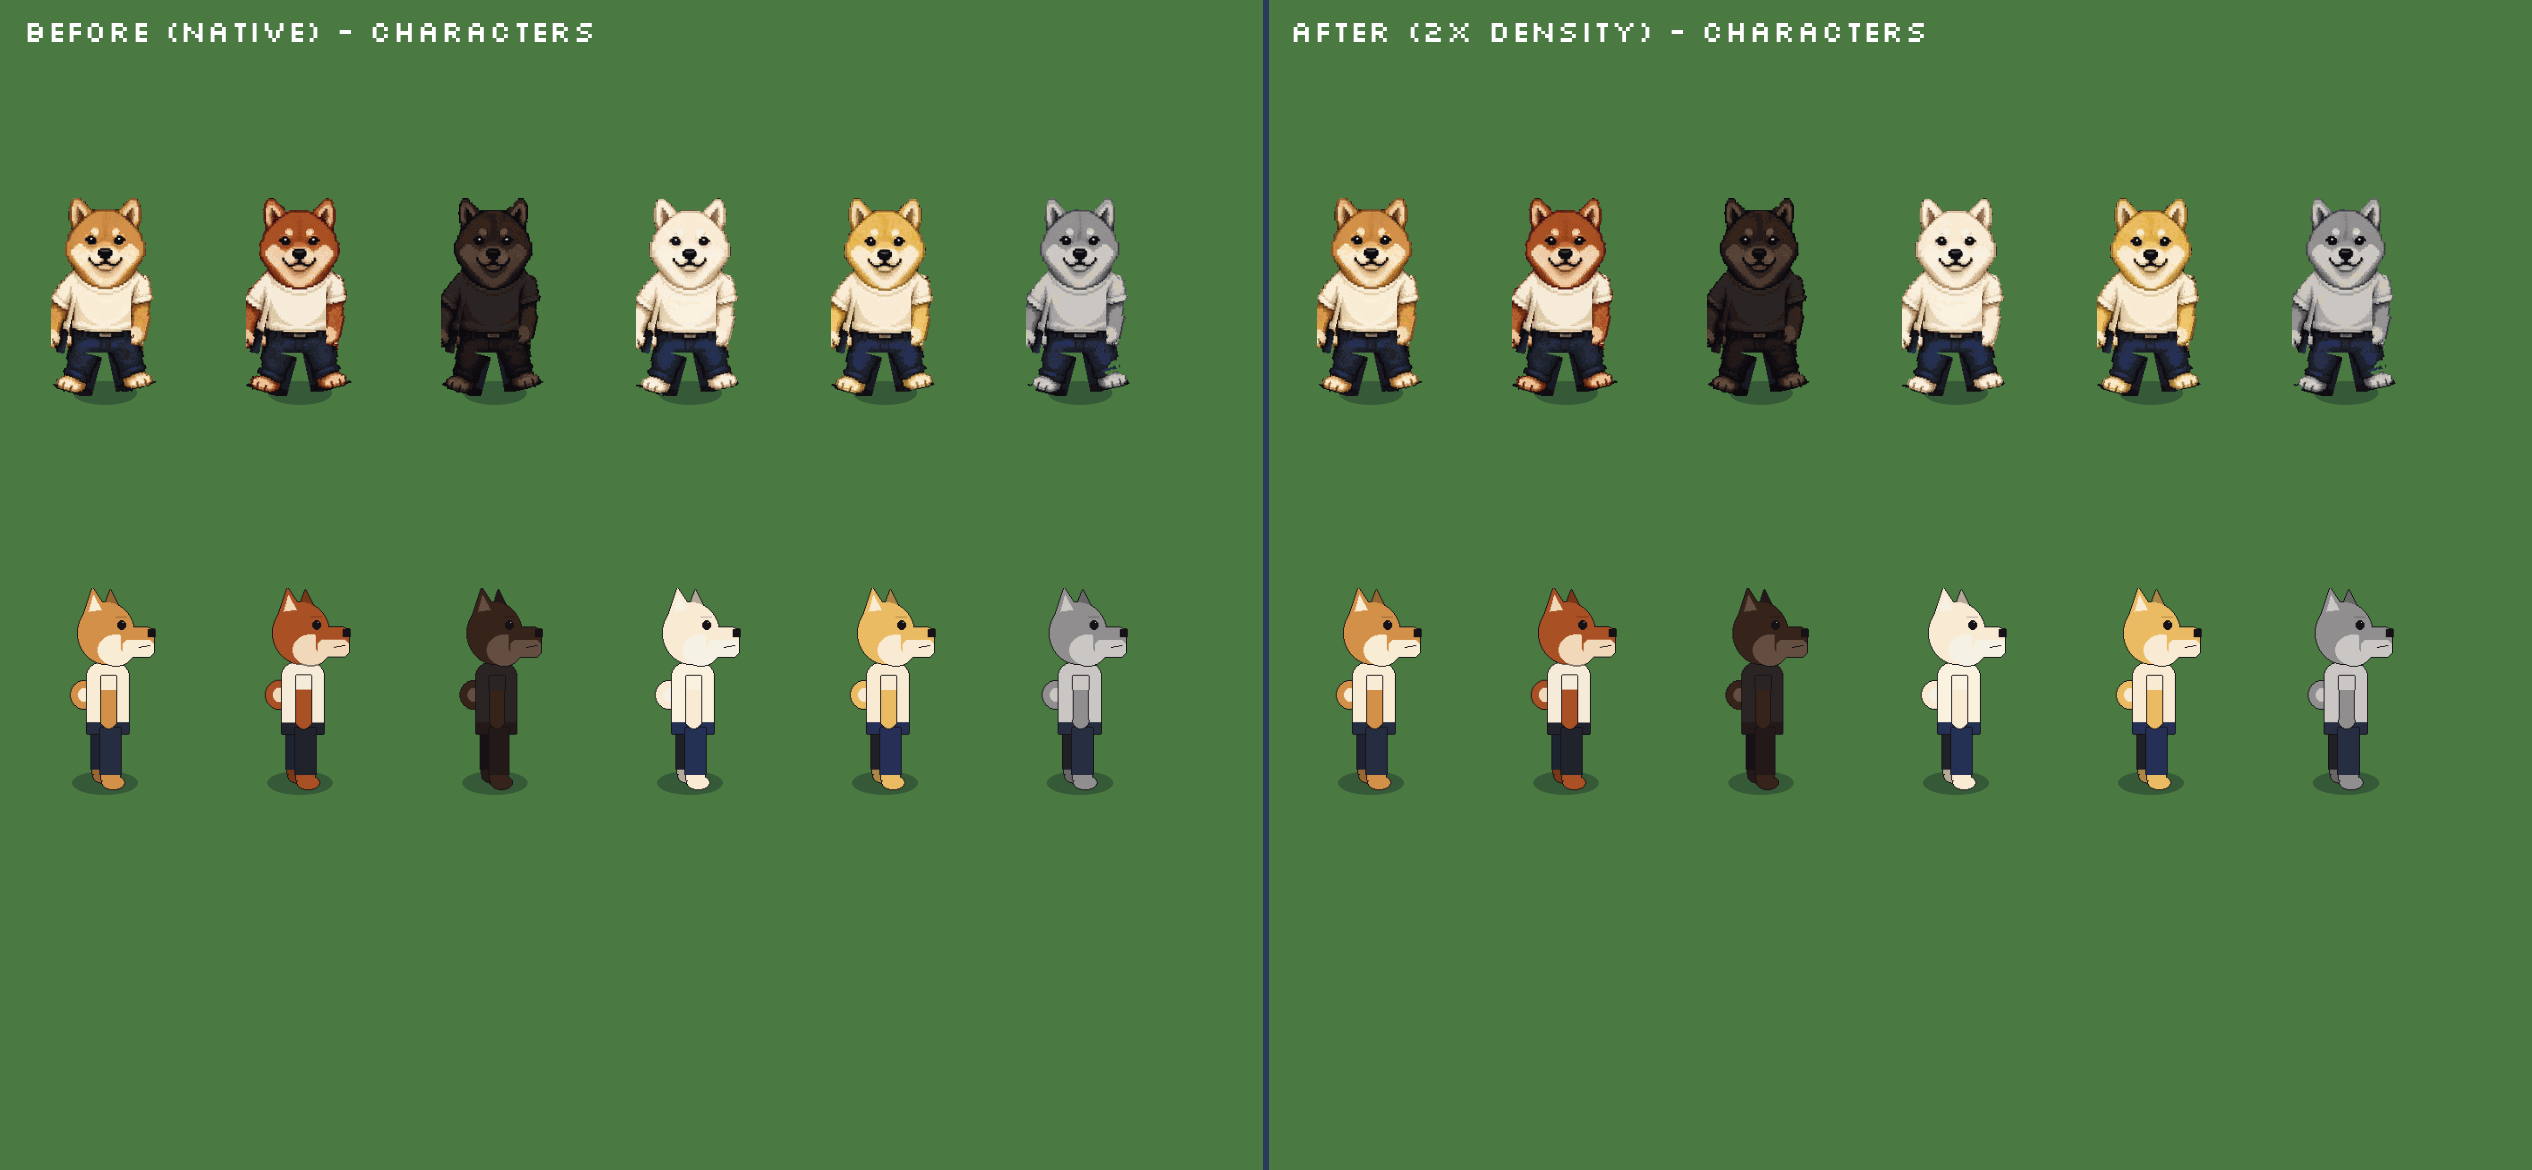
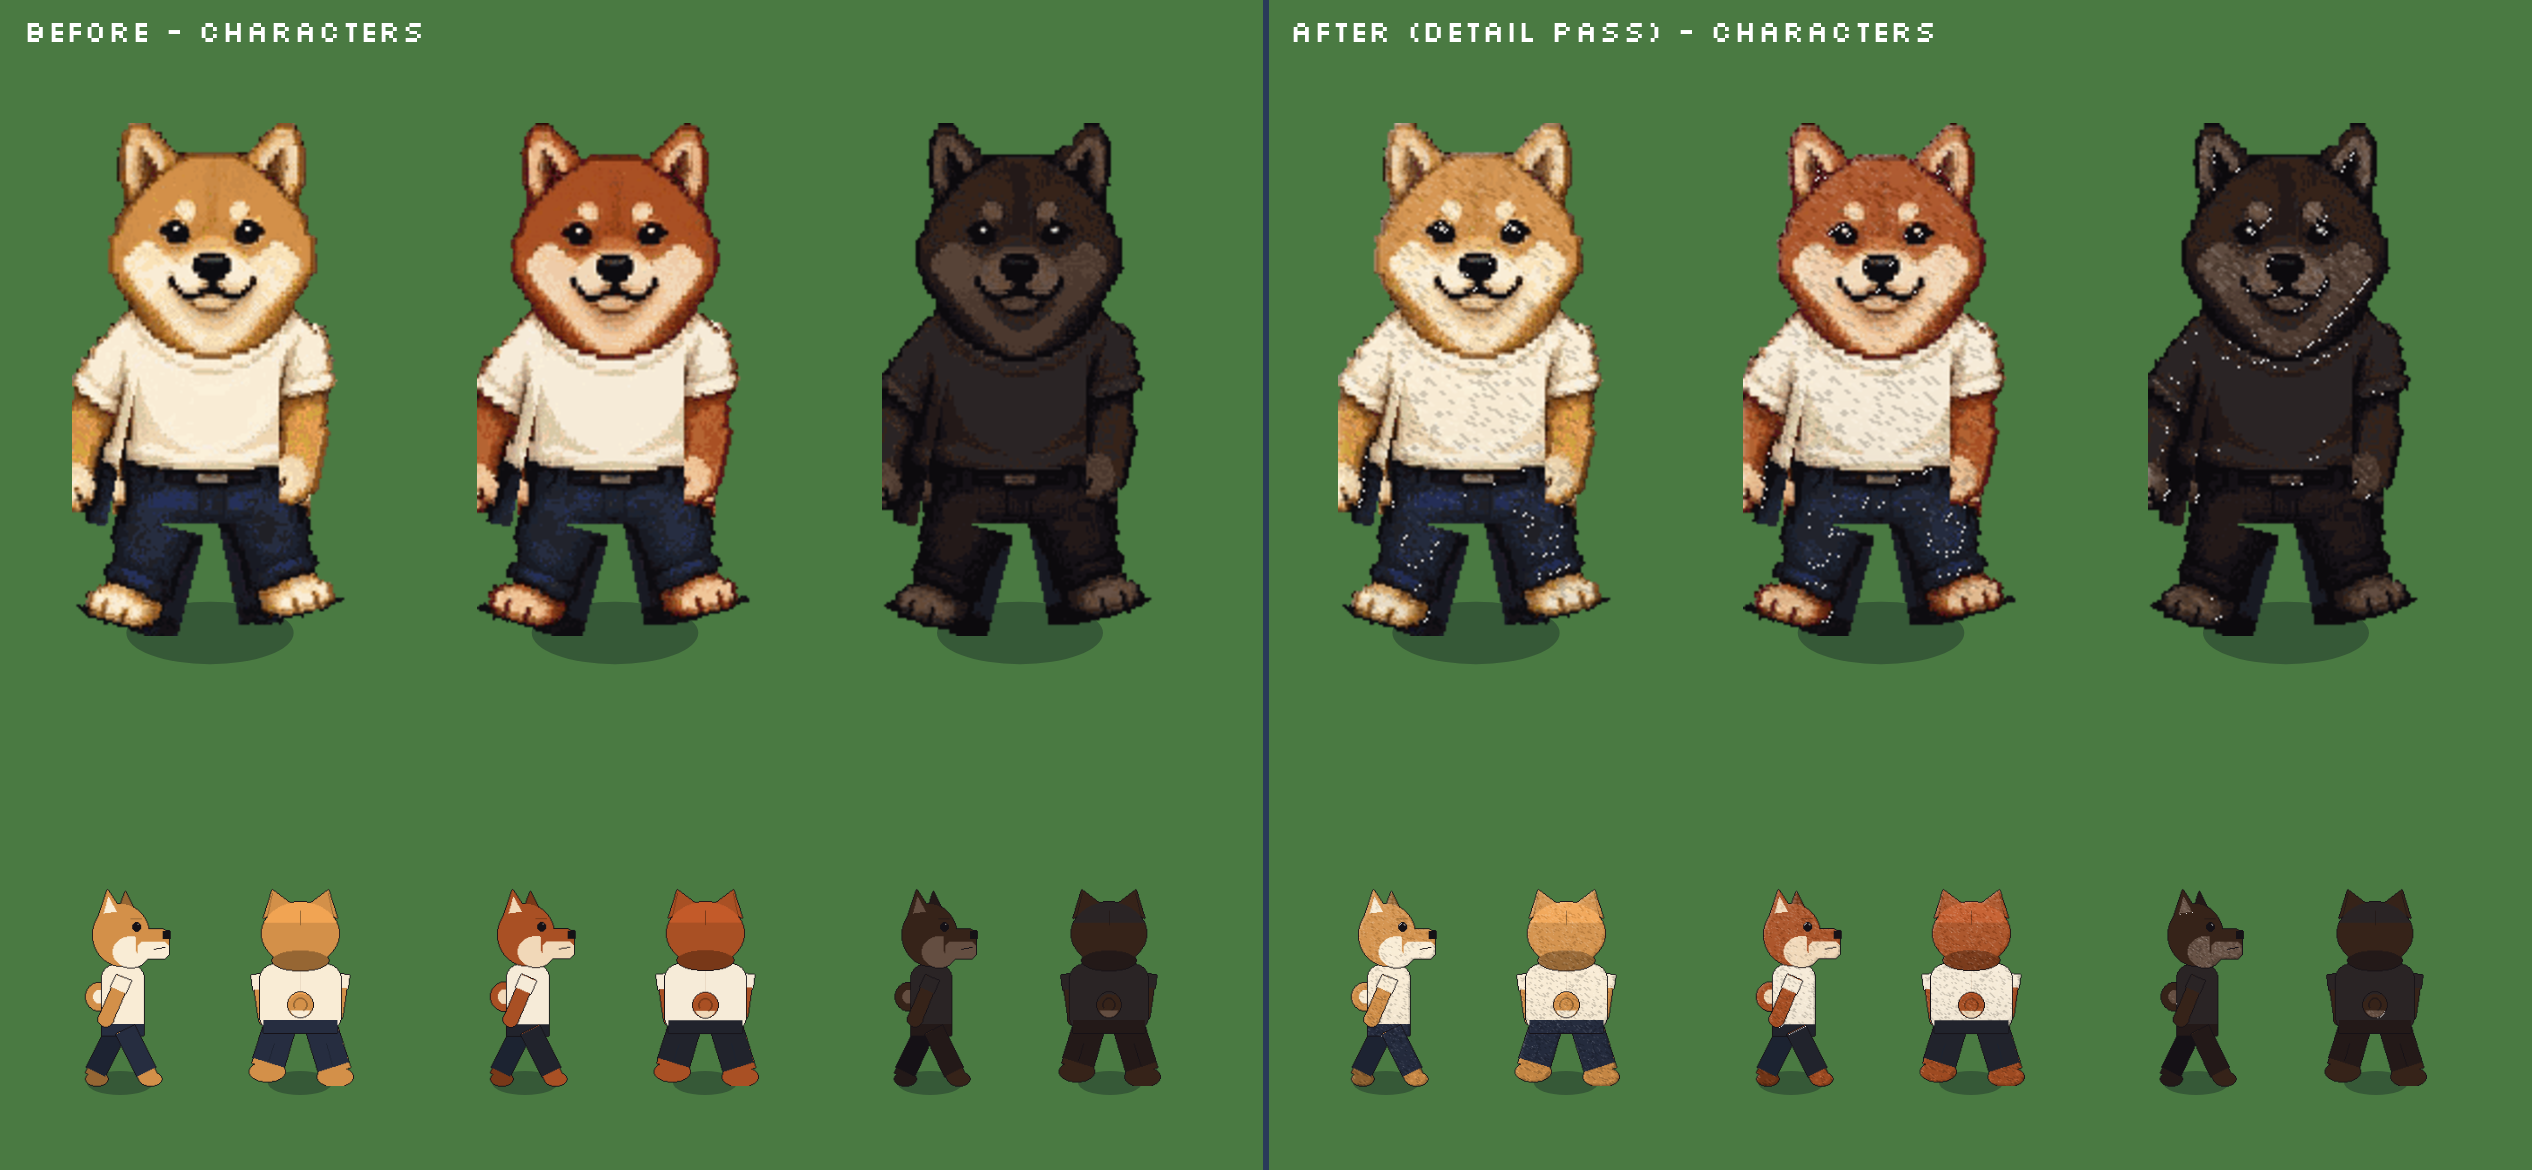
Detail pass (1/4): characters, 28 outfit items, shared Shiba - fur strands, form shading + rim light, eye glints, per-item fabric/material patterns (pinstripe, knit, twill+stitching, florals, sequins, satin sheen, lens glints, jewel sparkle)

diff --git a/src/detail.js b/src/detail.js
@@ -1,0 +1,67 @@
+// Detail pass for cosmetics: form shading + rim light, fur strands, eye glints and per-item fabric/material patterns.
+// All procedural, palette-preserving (mixes toward each pixel's own lighter/darker tone), run once per sprite and cached.
+const mk = (w, h) => (typeof OffscreenCanvas !== 'undefined' ? new OffscreenCanvas(w, h) : Object.assign(document.createElement('canvas'), { width: w, height: h }));
+const hash = (x, y, s = 0) => { let n = (x * 374761393 + y * 668265263 + s * 2147483647) | 0; n = Math.imul(n ^ (n >>> 13), 1274126177); return ((n ^ (n >>> 16)) >>> 0) / 4294967296; };
+const lum = (r, g, b) => 0.3 * r + 0.59 * g + 0.11 * b;
+// Pixel-level pass on a canvas (in place). r = rim/shadow reach in px. fur = strand strength (0 = none).
+export function shadeSprite(cv, { r = 2, light = 0.28, dark = 0.3, fur = 0, glint = false, grad = 0.12, seed = 1, skipInk = 40 } = {}) {
+  const w = cv.width, h = cv.height, c = cv.getContext('2d'), im = c.getImageData(0, 0, w, h), d = im.data, src = new Uint8ClampedArray(d);
+  const A = (x, y) => (x < 0 || y < 0 || x >= w || y >= h ? 0 : src[(y * w + x) * 4 + 3]);
+  const L = (x, y) => { const i = (y * w + x) * 4; return lum(src[i], src[i + 1], src[i + 2]); };
+  let y0 = h, y1 = 0; for (let y = 0; y < h; y++) for (let x = 0; x < w; x++) if (A(x, y) > 128) { y0 = Math.min(y0, y); y1 = Math.max(y1, y); }
+  const span = Math.max(1, y1 - y0);
+  for (let y = 0; y < h; y++) for (let x = 0; x < w; x++) {
+    const i = (y * w + x) * 4; if (src[i + 3] < 128) continue; const l = L(x, y); if (l < skipInk) continue; // keep outlines/ink crisp
+    let k = 0; // + lighten, - darken
+    for (let s = 1; s <= r; s++) { if (A(x - s, y - s) < 128 || A(x, y - s) < 128) { k += light / s; break; } }
+    for (let s = 1; s <= r; s++) { if (A(x + s, y + s) < 128 || A(x + s, y) < 128) { k -= dark / s; break; } }
+    k += grad * (0.5 - (y - y0) / span) * 2; // top-lit form gradient
+    if (fur) { const hh = hash(x >> 0, y, seed), stroke = hash((x - y) >> 1, (x + y) >> 2, seed + 7); if (stroke > 0.82) k -= fur; else if (stroke < 0.1) k += fur * 0.7; if (hh > 0.97) k += fur; }
+    const t = k > 0 ? 255 : 0, a = Math.min(0.6, Math.abs(k)); for (let j = 0; j < 3; j++) d[i + j] = src[i + j] + (t - src[i + j]) * a;
+  }
+  if (glint) for (let y = 6; y < h - 6; y++) for (let x = 6; x < w - 6; x++) { // eye glints: dark pixel enclosed by colour
+    if (L(x, y) > skipInk || A(x, y) < 128) continue; if (![[-6, 0], [6, 0], [0, -6], [0, 6], [-2, 0], [2, 0], [0, -2], [0, 2]].every(([a, b]) => A(x + a, y + b) > 128)) continue;
+    if (L(x - 1, y) <= skipInk && L(x, y - 1) <= skipInk && L(x + 1, y) <= skipInk && L(x, y + 1) <= skipInk && L(x - 1, y - 1) > skipInk) { const i = (y * w + x) * 4; d[i] = d[i + 1] = d[i + 2] = 255; }
+  }
+  c.putImageData(im, 0, 0); return cv;
+}
+// Material patterns per outfit item (drawn source-atop on that layer only). b = layer bbox [x, y, w, h], u = px unit.
+const P = {
+  pin: (c, [x, y, w, h], col, step = 5) => { c.fillStyle = col; for (let i = x + 2; i < x + w; i += step) c.fillRect(i, y, 1, h); },
+  rows: (c, [x, y, w, h], col, step = 3) => { c.fillStyle = col; for (let j = y + 1; j < y + h; j += step) c.fillRect(x, j, w, 1); },
+  twill: (c, [x, y, w, h], col, step = 4) => { c.fillStyle = col; for (let j = y; j < y + h; j++) for (let i = x + ((j * 1) % step); i < x + w; i += step) c.fillRect(i, j, 1, 1); },
+  folds: (c, [x, y, w, h], n = 3) => { c.strokeStyle = 'rgba(0,0,0,.28)'; c.lineWidth = 1.5; for (let k = 0; k < n; k++) { const fy = y + h * (0.3 + 0.22 * k); c.beginPath(); c.moveTo(x + w * 0.15, fy); c.quadraticCurveTo(x + w * 0.5, fy + 5, x + w * 0.85, fy - 1); c.stroke(); } c.strokeStyle = 'rgba(255,255,255,.18)'; for (let k = 0; k < n; k++) { const fy = y + h * (0.3 + 0.22 * k) - 2; c.beginPath(); c.moveTo(x + w * 0.2, fy); c.quadraticCurveTo(x + w * 0.5, fy + 4, x + w * 0.8, fy - 1); c.stroke(); } },
+  sheen: (c, [x, y, w, h], a0 = 0.35) => { const a = a0 * 0.45; const g = c.createLinearGradient(x, y, x + w, y + h); g.addColorStop(0.15, 'rgba(255,255,255,0)'); g.addColorStop(0.32, `rgba(255,255,255,${a})`); g.addColorStop(0.42, 'rgba(255,255,255,0)'); c.fillStyle = g; c.fillRect(x, y, w, h); },
+  dots: (c, [x, y, w, h], cols, n, r = 1.5, seed = 3) => { for (let k = 0; k < n; k++) { c.fillStyle = cols[k % cols.length]; const px = x + hash(k, 1, seed) * w, py = y + hash(k, 2, seed) * h; c.fillRect(Math.round(px), Math.round(py), r, r); } },
+  flowers: (c, b, seed = 5) => { const [x, y, w, h] = b; for (let k = 0; k < Math.max(4, (w * h) / 260); k++) { const px = Math.round(x + hash(k, 1, seed) * w), py = Math.round(y + hash(k, 2, seed) * h), col = ['#ff6fa0', '#ffe066', '#ffffff', '#ff9a3a'][k % 4];
+    c.fillStyle = col; c.fillRect(px - 2, py, 5, 1); c.fillRect(px, py - 2, 1, 5); c.fillRect(px - 1, py - 1, 3, 3); c.fillStyle = '#7a2a1a'; c.fillRect(px, py, 1, 1); c.fillStyle = '#2f8a4a'; c.fillRect(px + 2, py + 2, 2, 1); } },
+  stitch: (c, [x, y, w, h], col) => { c.fillStyle = col; for (let j = y + 2; j < y + h; j += 4) { c.fillRect(x + 3, j, 1, 2); c.fillRect(x + w - 4, j, 1, 2); } },
+  glint: (c, [x, y, w, h]) => { c.fillStyle = 'rgba(255,255,255,.75)'; for (let k = 0; k < 3; k++) c.fillRect(Math.round(x + w * (0.18 + k * 0.08)), Math.round(y + h * 0.15), 1, Math.max(2, Math.round(h * 0.55))); },
+  sparkle: (c, b, n, seed = 9) => { const [x, y, w, h] = b; for (let k = 0; k < n; k++) { const px = Math.round(x + hash(k, 1, seed) * w), py = Math.round(y + hash(k, 2, seed) * h); c.fillStyle = '#fffbe0'; c.fillRect(px, py, 1, 1); c.fillStyle = 'rgba(255,251,224,.55)'; c.fillRect(px - 1, py, 3, 1); c.fillRect(px, py - 1, 1, 3); } },
+};
+export const PATTERNS = {
+  suit_navy: (c, b) => { P.pin(c, b, 'rgba(210,220,255,.22)'); P.folds(c, b, 2); P.sheen(c, b, 0.18); },
+  gold_suit: (c, b) => { P.twill(c, b, 'rgba(255,250,200,.35)', 3); P.folds(c, b, 2); P.sheen(c, b, 0.4); P.sparkle(c, b, 10); },
+  tux_black: (c, b) => { P.sheen(c, b, 0.32); P.folds(c, b, 2); P.pin(c, b, 'rgba(255,255,255,.06)', 3); },
+  jacket_black: (c, b) => { P.sheen(c, b, 0.4); P.folds(c, b, 3); P.stitch(c, b, 'rgba(200,200,210,.45)'); },
+  hoodie_maroon: (c, b) => { P.rows(c, b, 'rgba(0,0,0,.16)', 3); P.folds(c, b, 3); P.dots(c, b, ['rgba(255,255,255,.12)'], 60, 1, 4); },
+  hawaiian: (c, b) => { P.flowers(c, b); P.folds(c, b, 2); },
+  gown_white: (c, b) => { P.folds(c, b, 4); P.sheen(c, b, 0.3); P.sparkle(c, b, 14); },
+  velvet_gown: (c, b) => { P.folds(c, b, 4); P.dots(c, b, ['rgba(0,0,0,.18)', 'rgba(255,255,255,.1)'], 160, 1, 6); P.sparkle(c, b, 12); },
+  slacks_navy: (c, b) => { P.pin(c, b, 'rgba(210,220,255,.2)'); P.folds(c, b, 2); },
+  slacks_black: (c, b) => { P.sheen(c, b, 0.2); P.folds(c, b, 2); },
+  jeans_ripped: (c, b) => { P.twill(c, b, 'rgba(180,200,255,.28)', 3); P.stitch(c, b, '#d9a441'); P.folds(c, b, 2); },
+  chinos: (c, b) => { P.twill(c, b, 'rgba(0,0,0,.12)', 4); P.folds(c, b, 2); },
+  sneakers_red: (c, b) => { P.rows(c, b, 'rgba(255,255,255,.55)', 4); P.sheen(c, b, 0.4); },
+  sneakers_gold: (c, b) => { P.sheen(c, b, 0.55); P.sparkle(c, b, 4); },
+  loafers: (c, b) => P.sheen(c, b, 0.6),
+  cap_red: (c, b) => { P.pin(c, b, 'rgba(0,0,0,.22)', 7); P.sheen(c, b, 0.3); },
+  top_hat: (c, b) => P.sheen(c, b, 0.45), pres_cap: (c, b) => { P.pin(c, b, 'rgba(0,0,0,.2)', 7); P.sheen(c, b, 0.3); },
+  crown: (c, b) => { P.sheen(c, b, 0.6); P.sparkle(c, b, 6); },
+  shades: (c, b) => P.glint(c, b), gold_shades: (c, b) => P.glint(c, b), plat_shades: (c, b) => P.glint(c, b),
+  chain_gold: (c, b) => P.sparkle(c, b, 4), diamond_chain: (c, b) => P.sparkle(c, b, 8), pres_pin: (c, b) => P.sparkle(c, b, 2),
+  tie_red: (c, b) => { c.fillStyle = 'rgba(255,255,255,.3)'; for (let j = b[1]; j < b[1] + b[3]; j += 4) for (let i = 0; i < b[2]; i++) c.fillRect(b[0] + i, j + i, 1, 1); },
+  bowtie: (c, b) => P.sheen(c, b, 0.4), pres_scarf: (c, b) => { P.rows(c, b, 'rgba(255,255,255,.2)', 3); P.folds(c, b, 2); },
+};
+export function patternLayer(c, id, b) { const f = PATTERNS[id]; if (!f) return; c.save(); c.globalCompositeOperation = 'source-atop'; f(c, b); c.restore(); }
+export { mk as mkCanvas };

diff --git a/src/art.js b/src/art.js
@@ -2,6 +2,7 @@ import { drawInuAvatar } from './vendor/inu-avatar.js';
 // All art drawn procedurally - original.
 import { shibaSprite } from './sprite.js';
 import { hires } from './hires.js';
+import { shadeSprite, patternLayer, mkCanvas } from './detail.js';
 // Shared Shiba (vendor/inu-avatar.js, synced from kibble-pay) drawn at 4x its native 18x22 pixel density (Scale2x twice).
 // Same signature + return value as drawInuAvatar; the vendored file and other games are untouched.
 const avHi = new WeakMap();
@@ -10,7 +11,7 @@ export function drawInuAvatarHi(ctx, profile, x, y, opts = {}) {
   const fake = { save() {}, restore() {}, set fillStyle(v) { this._f = v; }, get fillStyle() { return this._f; }, imageSmoothingEnabled: false,
     fillRect(...a) { sh.push([this._f, a]); }, drawImage(s, ...a) { spr = s; dst = a; } };
   const r = drawInuAvatar(fake, profile, x, y, opts); if (!spr) return drawInuAvatar(ctx, profile, x, y, opts);
-  let hi = avHi.get(spr); if (!hi) { hi = hires(spr, 2); avHi.set(spr, hi); }
+  let hi = avHi.get(spr); if (!hi) { hi = hires(spr, 2); if (!globalThis.__noDetail && hi !== spr) shadeSprite(hi, { r: 4, light: 0.3, dark: 0.3, fur: 0.14, glint: true, grad: 0.12 }); avHi.set(spr, hi); }
   ctx.save(); for (const [f, a] of sh) { ctx.fillStyle = f; ctx.fillRect(...a); } ctx.imageSmoothingEnabled = false; ctx.drawImage(hi, ...dst); ctx.restore(); return r;
 }
 import { FURNITURE, footprint, WALLS, FLOORS } from './furniture.js';
@@ -40,7 +41,12 @@ function layeredCanvas(coat, view, frame, equipped) {
   let cv = layerCache.get(key); if (cv) return cv;
   const atlas = ART['outfits/' + coat], [cw, ch] = OUTFIT_ATLAS.canvas[coat], fr = OUTFIT_ATLAS.frames[coat];
   cv = Object.assign(document.createElement('canvas'), { width: cw, height: ch }); const c = cv.getContext('2d');
-  for (const k of outfitLayers(coat, view, frame, equipped)) { const [sx, sy, w, h, ox, oy] = fr[k]; c.drawImage(atlas, sx, sy, w, h, ox, oy, w, h); }
+  const D = !globalThis.__noDetail; // detail pass: fur + form shading on the coat, material patterns per outfit layer, rim light on the whole look
+  for (const k of outfitLayers(coat, view, frame, equipped)) { const [sx, sy, w, h, ox, oy] = fr[k], id = k.split('|')[0];
+    if (!D) { c.drawImage(atlas, sx, sy, w, h, ox, oy, w, h); continue; }
+    const t = mkCanvas(w + 4, h + 4), tc = t.getContext('2d'); tc.drawImage(atlas, sx, sy, w, h, 2, 2, w, h);
+    if (id === 'base') shadeSprite(t, { r: 3, light: 0.22, dark: 0.26, fur: 0.16, glint: true, grad: 0.08, seed: coat.length }); else { patternLayer(tc, id, [2, 2, w, h]); shadeSprite(t, { r: 2, light: 0.2, dark: 0.32, grad: 0.1 }); }
+    c.drawImage(t, ox - 2, oy - 2); }
   const b = fr[`base|${view}|0`]; cv.feet = b[5] + b[3]; // canvas row under the paws
   layerCache.set(key, cv); if (layerCache.size > 400) layerCache.delete(layerCache.keys().next().value);
   return cv;
